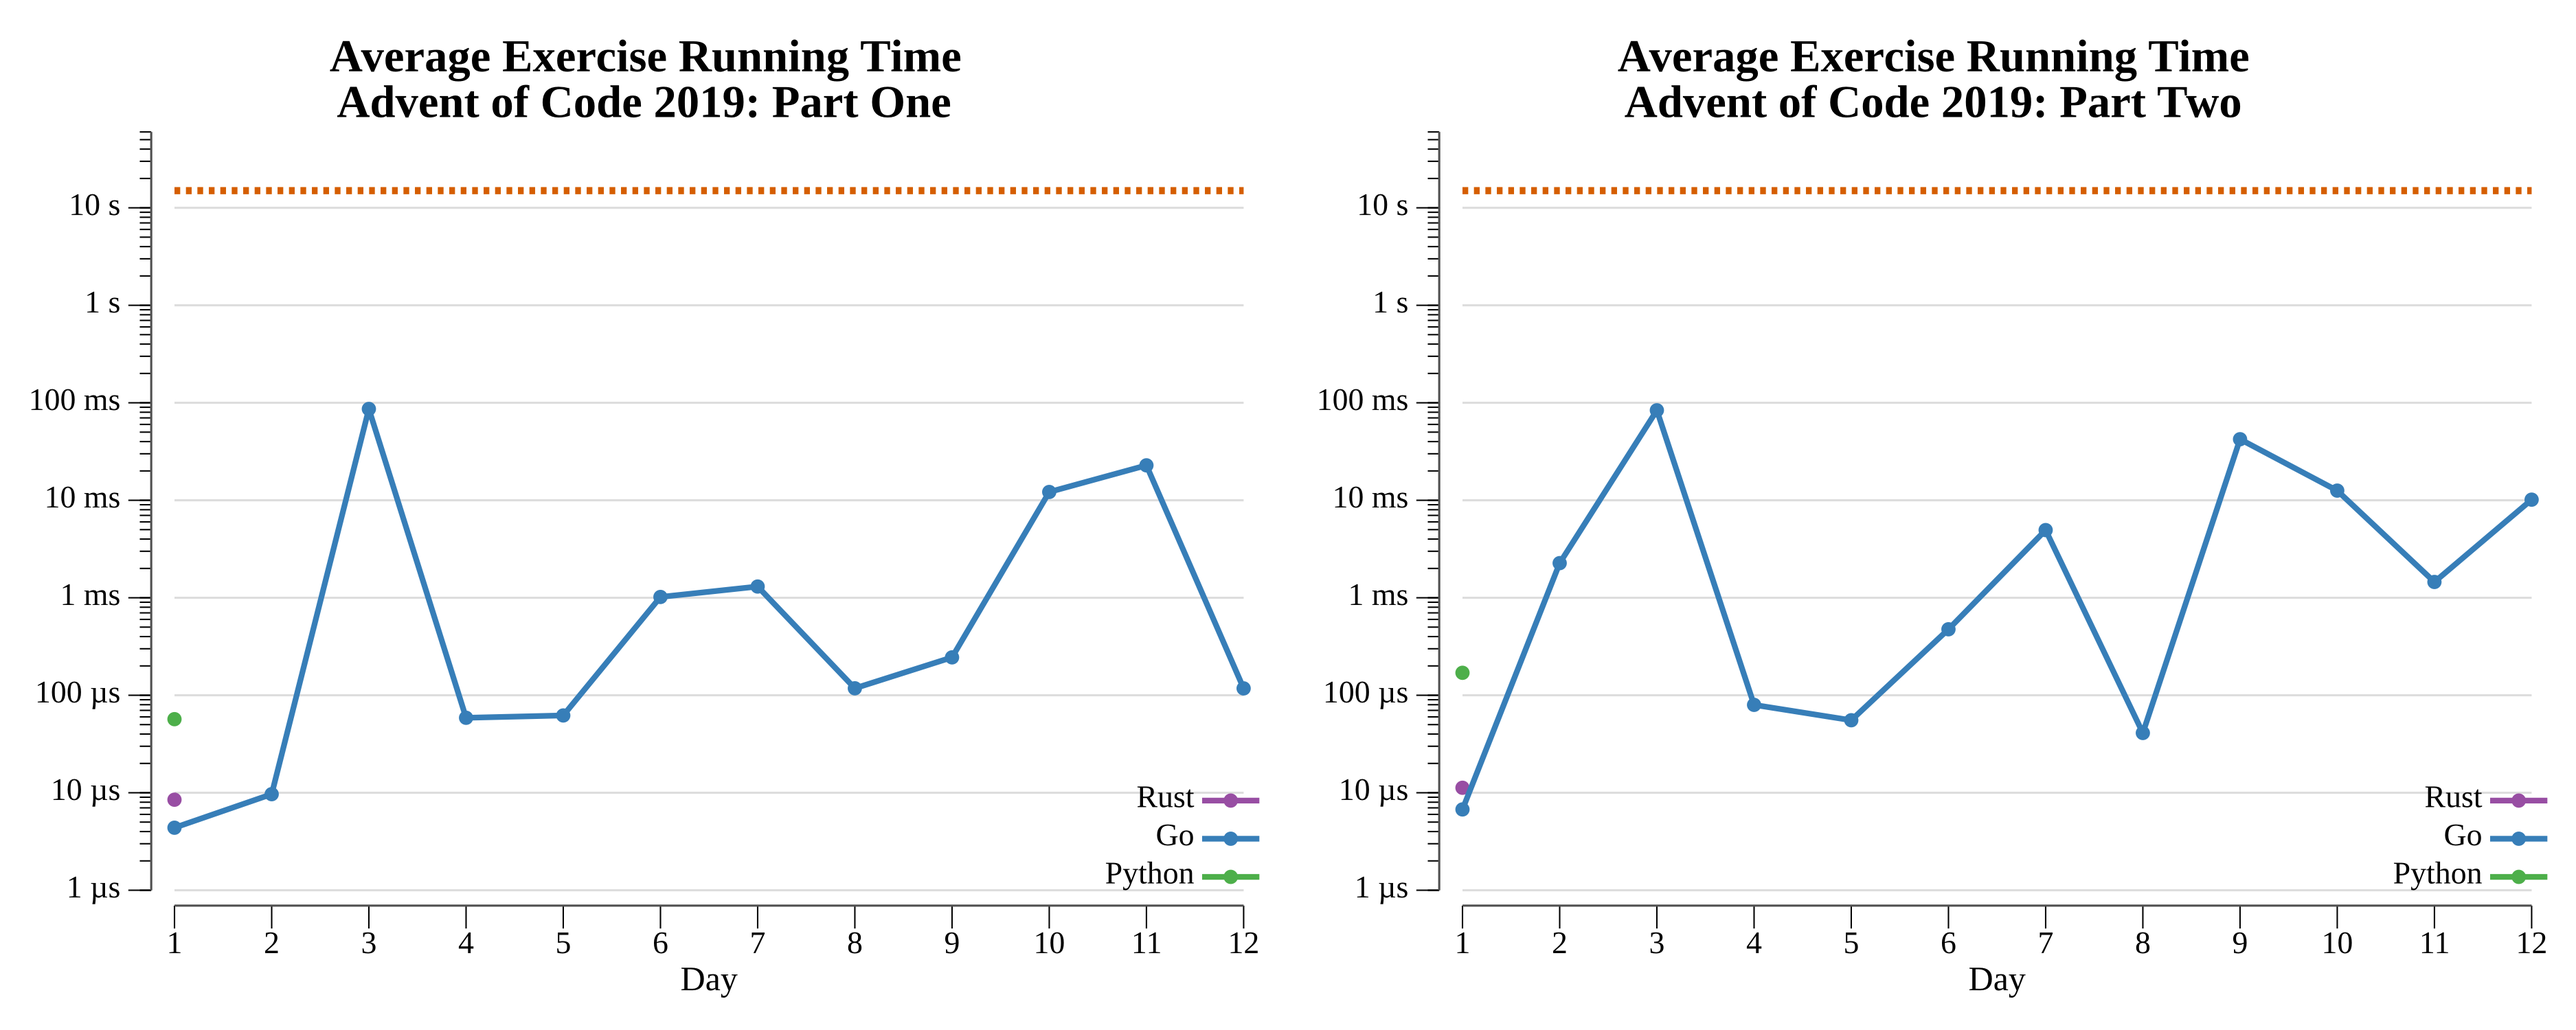
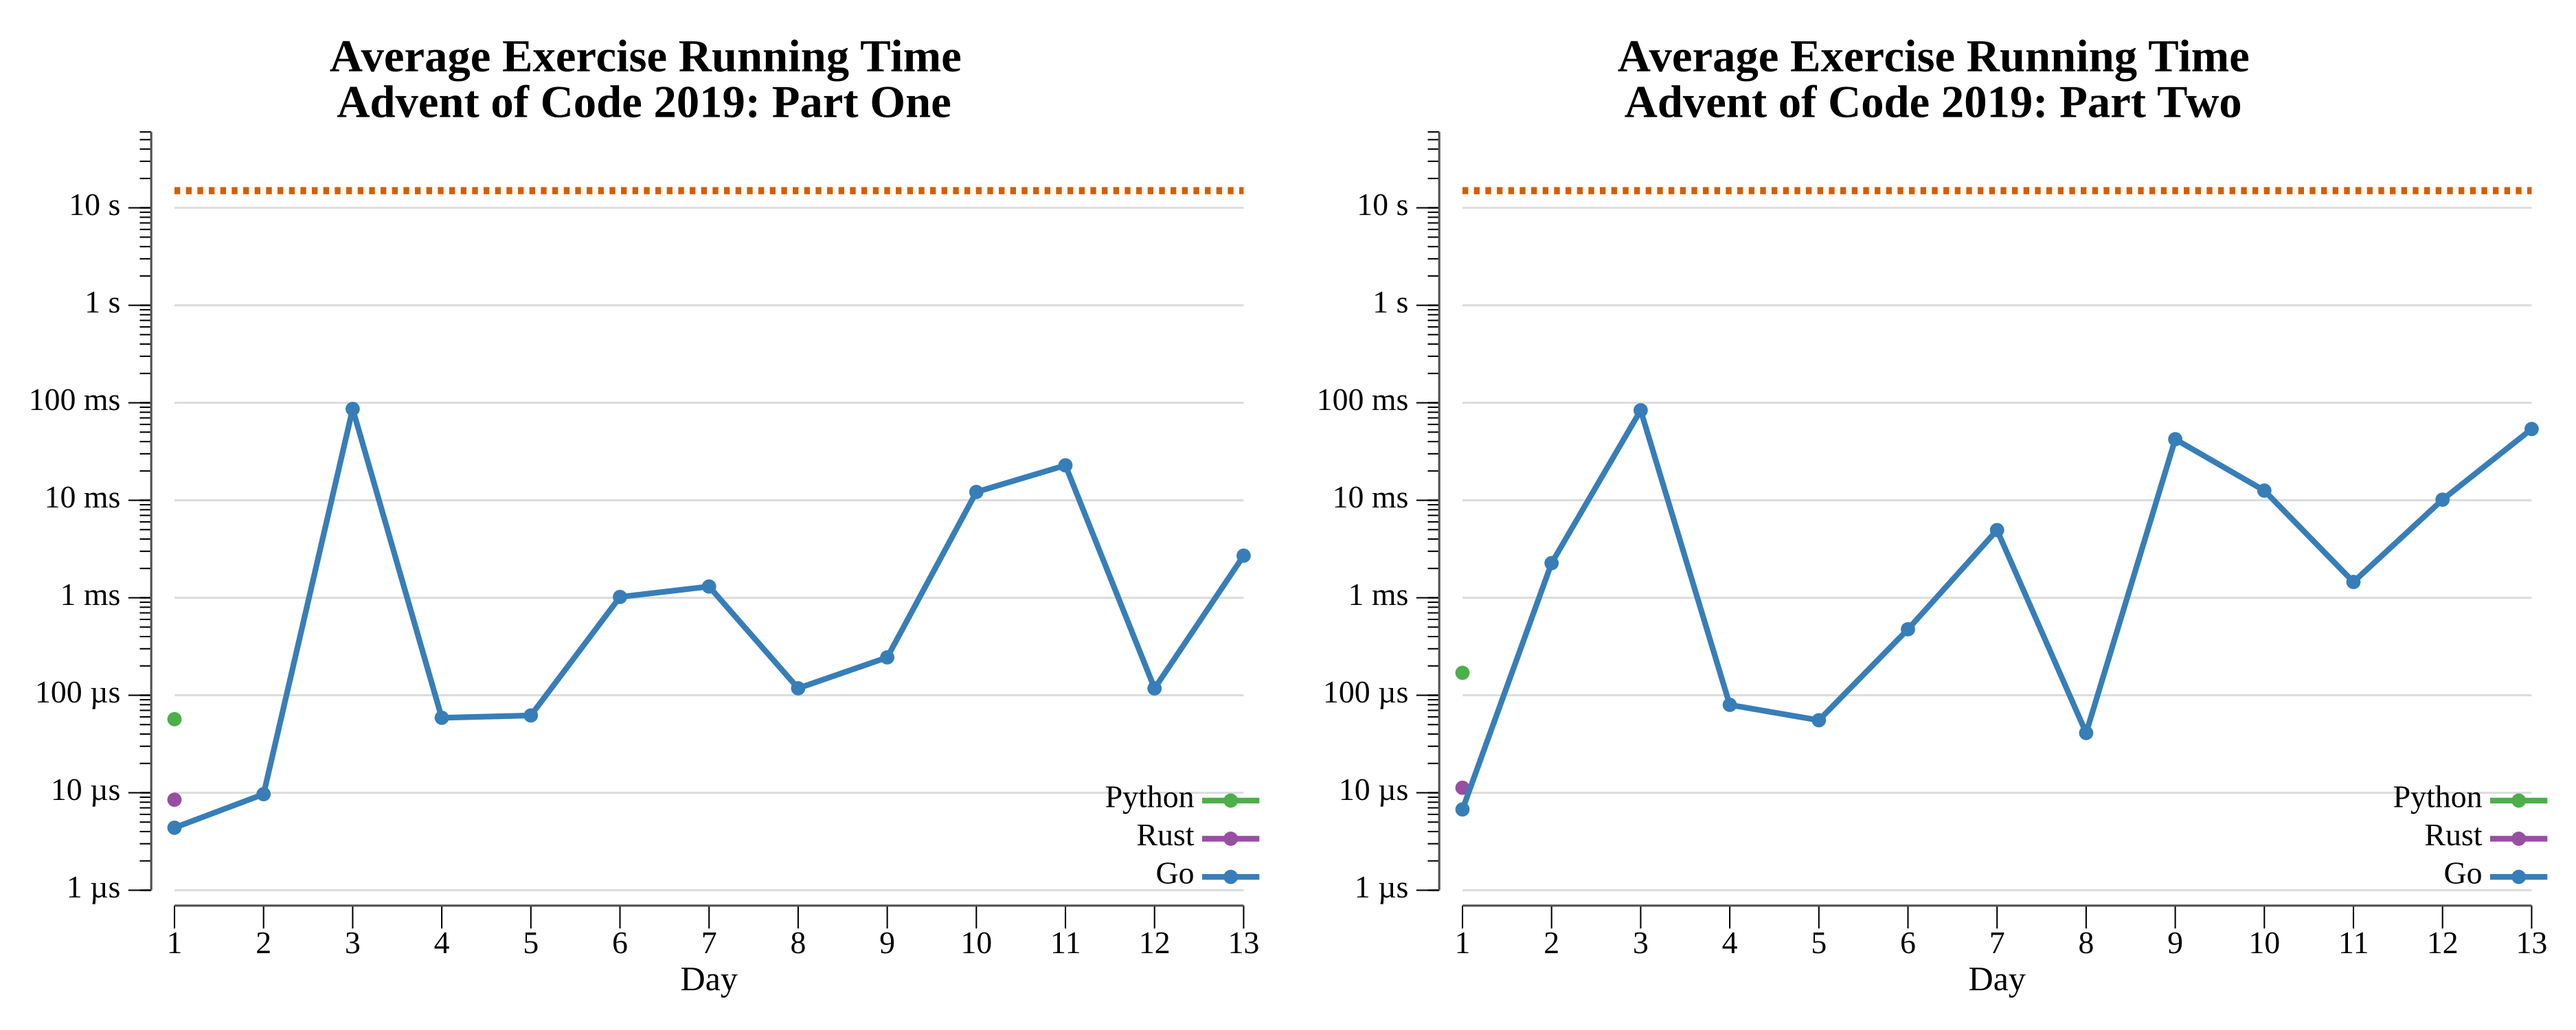
solve 2019 day 13

diff --git a/exercises/2019/13-carePackage/go/exercise.go b/exercises/2019/13-carePackage/go/exercise.go
@@ -1,0 +1,262 @@
+package exercises
+
+import (
+	"strconv"
+	"strings"
+
+	"github.com/asphaltbuffet/advent-of-code/internal/common"
+)
+
+// Exercise for Advent of Code 2019 day 13.
+type Exercise struct {
+	common.BaseExercise
+}
+
+// mem is a map-backed unbounded memory for Intcode.
+type mem map[int]int
+
+func (m mem) get(addr int) int  { return m[addr] }
+func (m mem) set(addr, val int) { m[addr] = val }
+
+// parseProgram parses a comma-separated Intcode program into a mem map.
+func parseProgram(input string) mem {
+	m := make(mem)
+	for i, s := range strings.Split(strings.TrimSpace(input), ",") {
+		v, _ := strconv.Atoi(s)
+		m[i] = v
+	}
+
+	return m
+}
+
+// intcode runs an Intcode computer in a goroutine, communicating via channels.
+//
+//nolint:gocognit,funlen // Intcode VM opcode dispatch is inherently complex
+func intcode(m mem, in <-chan int, out chan<- int) {
+	ip := 0
+	relBase := 0
+
+	param := func(offset, mode int) int {
+		raw := m.get(ip + offset)
+		switch mode {
+		case 0:
+			return m.get(raw)
+		case 1:
+			return raw
+		case 2:
+			return m.get(relBase + raw)
+		}
+		panic("unknown mode")
+	}
+
+	dest := func(offset, mode int) int {
+		raw := m.get(ip + offset)
+		switch mode {
+		case 0:
+			return raw
+		case 2:
+			return relBase + raw
+		}
+		panic("unknown dest mode")
+	}
+
+	for {
+		instr := m.get(ip)
+		op := instr % 100
+		m1 := (instr / 100) % 10
+		m2 := (instr / 1000) % 10
+		m3 := (instr / 10000) % 10
+
+		switch op {
+		case 1:
+			m.set(dest(3, m3), param(1, m1)+param(2, m2))
+			ip += 4
+		case 2:
+			m.set(dest(3, m3), param(1, m1)*param(2, m2))
+			ip += 4
+		case 3:
+			m.set(dest(1, m1), <-in)
+			ip += 2
+		case 4:
+			out <- param(1, m1)
+			ip += 2
+		case 5:
+			if param(1, m1) != 0 {
+				ip = param(2, m2)
+			} else {
+				ip += 3
+			}
+		case 6:
+			if param(1, m1) == 0 {
+				ip = param(2, m2)
+			} else {
+				ip += 3
+			}
+		case 7:
+			v := 0
+			if param(1, m1) < param(2, m2) {
+				v = 1
+			}
+
+			m.set(dest(3, m3), v)
+			ip += 4
+		case 8:
+			v := 0
+			if param(1, m1) == param(2, m2) {
+				v = 1
+			}
+
+			m.set(dest(3, m3), v)
+			ip += 4
+		case 9:
+			relBase += param(1, m1)
+			ip += 2
+		case 99:
+			close(out)
+			return
+		}
+	}
+}
+
+// One returns the answer to the first part of the exercise.
+// Runs the Intcode game program and counts tiles with tile_id == 2 (block tiles).
+func (e Exercise) One(instr string) (any, error) {
+	in := make(chan int, 1)
+	out := make(chan int)
+
+	go intcode(parseProgram(instr), in, out)
+
+	blockCount := 0
+
+	for {
+		_, ok := <-out
+		if !ok {
+			break
+		}
+
+		_, ok = <-out
+		if !ok {
+			break
+		}
+
+		tileID, ok := <-out
+		if !ok {
+			break
+		}
+
+		if tileID == 2 {
+			blockCount++
+		}
+	}
+
+	return blockCount, nil
+}
+
+// Two returns the answer to the second part of the exercise.
+func (e Exercise) Two(instr string) (any, error) { //nolint:gocognit,funlen
+	prog := parseProgram(instr)
+	prog.set(0, 2)
+
+	ip, relBase := 0, 0
+	var ballX, paddleX, score int
+	outBuf := make([]int, 0, 3)
+
+	param := func(offset, mode int) int {
+		raw := prog.get(ip + offset)
+		switch mode {
+		case 0:
+			return prog.get(raw)
+		case 1:
+			return raw
+		case 2:
+			return prog.get(relBase + raw)
+		}
+		panic("unknown mode")
+	}
+
+	dest := func(offset, mode int) int {
+		raw := prog.get(ip + offset)
+		switch mode {
+		case 0:
+			return raw
+		case 2:
+			return relBase + raw
+		}
+		panic("unknown dest mode")
+	}
+
+	for {
+		instr := prog.get(ip)
+		op := instr % 100
+		m1 := (instr / 100) % 10
+		m2 := (instr / 1000) % 10
+		m3 := (instr / 10000) % 10
+
+		switch op {
+		case 1:
+			prog.set(dest(3, m3), param(1, m1)+param(2, m2))
+			ip += 4
+		case 2:
+			prog.set(dest(3, m3), param(1, m1)*param(2, m2))
+			ip += 4
+		case 3:
+			// Provide joystick: track ball toward paddle.
+			j := 0
+			if ballX < paddleX {
+				j = -1
+			} else if ballX > paddleX {
+				j = 1
+			}
+			prog.set(dest(1, m1), j)
+			ip += 2
+		case 4:
+			outBuf = append(outBuf, param(1, m1))
+			if len(outBuf) == 3 {
+				x, y, val := outBuf[0], outBuf[1], outBuf[2]
+				outBuf = outBuf[:0]
+				if x == -1 && y == 0 {
+					score = val
+				} else {
+					switch val {
+					case 3:
+						paddleX = x
+					case 4:
+						ballX = x
+					}
+				}
+			}
+			ip += 2
+		case 5:
+			if param(1, m1) != 0 {
+				ip = param(2, m2)
+			} else {
+				ip += 3
+			}
+		case 6:
+			if param(1, m1) == 0 {
+				ip = param(2, m2)
+			} else {
+				ip += 3
+			}
+		case 7:
+			v := 0
+			if param(1, m1) < param(2, m2) {
+				v = 1
+			}
+			prog.set(dest(3, m3), v)
+			ip += 4
+		case 8:
+			v := 0
+			if param(1, m1) == param(2, m2) {
+				v = 1
+			}
+			prog.set(dest(3, m3), v)
+			ip += 4
+		case 9:
+			relBase += param(1, m1)
+			ip += 2
+		case 99:
+			return score, nil
+		}
+	}
+}

diff --git a/exercises/2019/13-carePackage/README.md b/exercises/2019/13-carePackage/README.md
@@ -1,0 +1,37 @@
+# [Day 13: Care Package](https://adventofcode.com/2019/day/13)
+
+<!-- These are helper text to make formatting the yearly readme consistent and easier...
+
+[Day 13: Care Package][rm13]
+[Go][go13]
+[Python][py13]
+
+[rm13]: 13-carePackage/README.md
+[go13]: 13-carePackage/go
+[py13]: 13-carePackage/py
+
+-->
+
+## Notes
+
+The Intcode computer drives an arcade cabinet that renders a breakout-style game on a tile grid. Each output triple encodes (x, y, tile_id): 0=empty, 1=wall, 2=block, 3=horizontal paddle, 4=ball. The score is emitted as the third value when x=−1 and y=0.
+
+Part One runs the program in read-only mode (no quarters inserted) and counts how many tiles with ID 2 (block) appear on screen after the program halts — 193 blocks.
+
+Part Two sets memory address 0 to 2 (free play) and runs a simple ball-tracking AI: on each input request the joystick feeds `sign(ball_x − paddle_x)`, which keeps the paddle centered under the ball. The program runs to completion once all blocks are destroyed, and the final score is 10547.
+
+## Go
+
+```text
+────────────────────────────────────────
+─      2019 Day 13: Care Package       ─
+────────────────────────────────────────
+
+Solving (Go)…
+1.0:  PASS             1.901ms
+2.0:  PASS            39.547ms
+```
+
+## Run Times
+
+![Run Times](run-times.png)

diff --git a/exercises/2019/README.md b/exercises/2019/README.md
@@ -18,7 +18,7 @@
 | [Day 10: Monitoring Station][rm_10]               |  ★ ★  | [Go][go_10] |
 | [Day 11: Space Police][rm_11]                     |  ★ ★  | [Go][go_11] |
 | [Day 12: The N-Body Problem][rm_12]               |  ★ ★  | [Go][go_12] |
-| 13                                                |  ☆ ☆  |                            |
+| [Day 13: Care Package][rm_13]                     |  ★ ★  | [Go][go_13] |
 | 14                                                |  ☆ ☆  |                            |
 | 15                                                |  ☆ ☆  |                            |
 | 16                                                |  ☆ ☆  |                            |
@@ -82,3 +82,6 @@ Day       Time    Rank  Score       Time    Rank  Score
 
 [rm_12]: 12-theN-BodyProblem/README.md
 [go_12]: 12-theN-BodyProblem/go/exercise.go
+
+[rm_13]: 13-carePackage/README.md
+[go_13]: 13-carePackage/go
